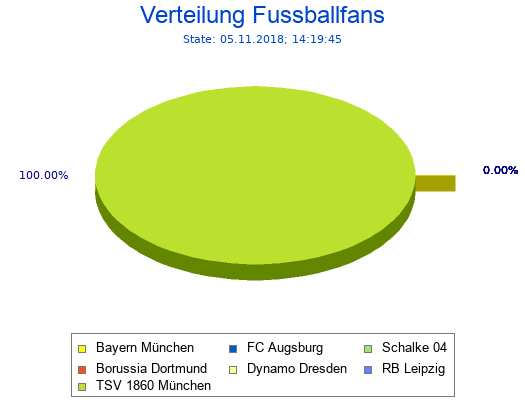
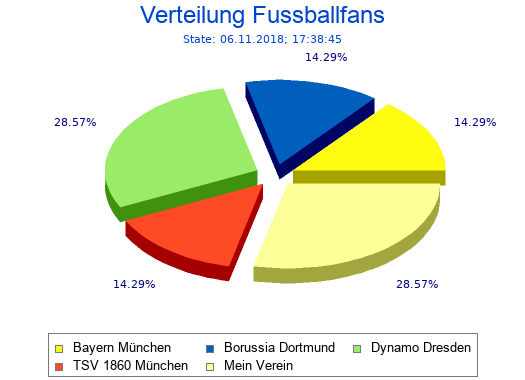
Removed Clubs with 0 Votes from the Pi Graph

diff --git a/1/A/results.php b/1/A/results.php
@@ -4,6 +4,7 @@ require_once("../functions/dbCredentials.php");  // created variables to login
 require_once("../functions/dbConnect.php");
 
 include("graph.php");
+$removeNull = true;
 
 $con = open_connection($servername, $username, $password, $database);
 
@@ -31,8 +32,10 @@ while ($row = mysqli_fetch_assoc($result))  {
 	$fans = $row['fans'];
 	$output .= "\t\t$name | $votes | $percent<br />\n";
 	
-	array_push($data, $votes);
-	array_push($legend, $name);
+	if ($votes != 0 || !$removeNull)  {
+		array_push($data, $votes);
+		array_push($legend, $name);
+	}
 }
 $output .= "\t\tTotal | $fans | 100%<br />\n";
 
